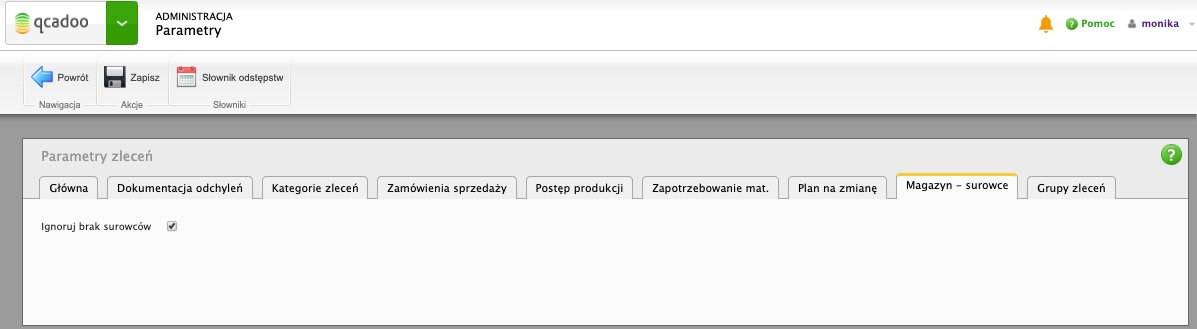
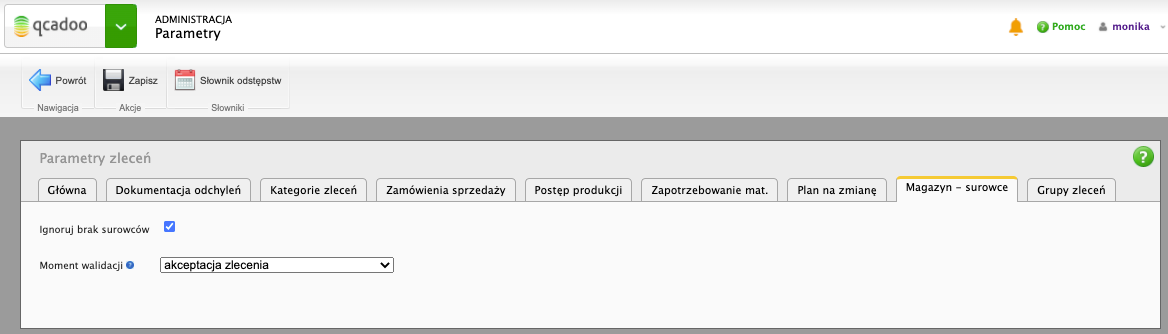
dashboard

diff --git a/pages/dashboard/dashboard.md b/pages/dashboard/dashboard.md
@@ -1,0 +1,80 @@
+---
+title: "Dashboard"
+permalink: dashboard.html 
+---
+
+Logując się do qcadoo wia Cię dashboard. Będziesz jednak wracał na nią częściej - bo proponuje kilka ciekawych rozwiazań, o których poczytasz poniżej.
+
+Zacznę od tego, że cały dashboard jest konfigurowalny. Wejdź w **Administracja > Parametry > [Dashboard](/parametry-dashboard)** i wskaż co chciałbyś zobaczyć na stronie startowej. 
+
+Pamiętaj, że w każdej chwili możesz przejść do dashboardu klikając w lewym górnym rogu ekranu w przycisk {% include inline_image.html file="przyciskQcadoo.png" alt="Przycisk qcadoo" %} **Pokaż qcadoo**).
+
+---
+
+Dashboard dzieli się na 3 obszary:
+1. obszar przycisków szybkiego wybierania
+2. obszar wykresu dziennej produkcji
+3. obszar dzisiejszych zleceń produkcyjnych lub zadań operacyjnych
+
+{% include lightbox.html file="dashboard_caly.png" alt="Dashboard" caption="Dashboard" %}
+
+## Przyciski szybkiego wybierania
+
+Masz możliwość ustawienia maksymalnie 6 przycisków z oferowanych w parametrach. Dzięki temu najczęściej używane funkcjonalności będziesz mieć zawsze pod ręką i szybko będziesz mógł je wywołać.
+
+{% include callout.html content="W parametrach możesz też ustawić kolejność w jakiej wyświetlane są przyciski." type="warning" %}
+
+## Wykres dziennej produkcji
+
+Wykres przedstawia dane z dzisiejszej produkcji. Składa się z trzech grup:
+- produkcja nie rozpoczęta
+- produkcja aktualnie realizowana
+- produkcja ukończona
+
+Analizowane są wszystkie zlecenia produkcyjne z dziś. Z każdego zlecenia pobierany jest procent wykonania. I to procent wykonania kwalifukuje zlecenie do danej grupy na wykresie. Jeśli w zleceniu nie ma ilości wyprodukowanej (czyli procent wykonania = 0) to zlecenie kształtuję grupę produkcji nie rozpoczętej. Jeśli produkcja została rozpoczęta i zarejestrowano już ilość wyprodukowaną, a procent wykonania jest większy od 0 ale nie przekroczył jeszcze 100%, to zlecenie wskakuje do grupy aktualnie realizowanych. Jeśli natomiast produkcja została zrealizowana w pełni, czyli wykonano 100% albo ustawiono status 'zakończone' to dane ze zlecenia zwiększają grupę produkcji ukończonej.
+
+## Obszar zleceń produkcyjnych lub zadań operacyjnych
+
+O tym co będziesz widzieć na dashboardzie decydują parametry - jeśli raportujesz zlecenia produkcyjne, ustaw widoczność zleceń. Jeśli natomiast raportujesz wykonanie każdej operacji - ustaw widoczność zadań operacyjnych.
+
+Ten element dashboardu ma na celu szybkie pokazanie Ci co masz zaplanowane do realizacji na dziś. I tu znowu 3 grupy:
+- oczekujące
+- realizowane
+- gotowe
+<br/>
+<br/>
+
+W zależności od statusu zlecenie wskakuje do właściwej grupy::
+- jeśli zlecenia mają status _zaakceptowane_ lub _przerwane_ to prezentowane są w grupie **oczekujące**
+- jeśli zlecenia mają status _rozpoczęte_ to pojawiają się w grupie **realizowane**
+- jeśli zlecenia mają status _zakończone_ to kształtują grupę **gotowe** 
+<br/>
+<br/>
+
+Przeciągając zlecenia między grupami (z lewej strony na prawą) możesz zmieniać ich statusy:
+- z grupy _oczekujące_ do _realizowane_ --> zlecenie dostaje status **rozpoczęte**
+- z grupy _realizowane_ do _gotowe_ --> zlecenie dostaje status **zakończone**
+<br/>
+<br/>
+
+Natomiast o tym w jakiej grupie zostanie zaprezentowane zadanie operacyjne świadczy stopień jego realizacji, interpretowany w następujący sposób:
+- jeśli zadanie nie ma zarejestrowanej produkcji i jego procent wykonania to 0, pojawia się w grupie **oczekujące**,
+- jeśli zadanie ma co najmniej jeden meldunek z produkcji, a procent wykonania kształtuje się między 0 a 100 procent, to widoczne jest w grupie **realizowane**
+- jeśli zadanie jest w pełni wykonane i jego procent = 100 albo status to _zakończone_ to zadanie będzie zaprezentowane w grupie **gotowe**
+
+{% include callout.html content="Zadania operacyjne nie mogą być przesuwane między grupami. Statusy zadań muszą być zmieniane z poziomu [listy zleceń produkcyjnych](/zlecenia-produkcyjne)." type="warning" %}
+
+### Dodatkowe funkcje dostępne z poziomu obszaru zleceń / zadań operacyjnych
+
+Z poziomu zleceń produkcyjnych widocznych na dashboardzie możesz wykonać następujące funkcje:
+1. klikając w numer zlecenia (czarna belka) przejdziesz do szczegółów zlecenia produkcyjnego. I z tego poziomu możesz wykonać wszystko to, co jest możliwe w standardzie dla zlecenia o danym statusie
+2. w obszarze **realizowane** z poziomu zlecenia raportowanego zbiorczo możliwe jest przejście do terminala rejestarcji produkcji (przycisk {% include inline_image.html file="przyciskPokazTerminal.png" alt="Przycisk Pokaż terminal" %} **Pokaż terminal**). Dane z automatu zostaną zaczytane, wystarczy, że wprowadzisz efekty wykonanej produkcji i potwierdzisz meldunek
+<br/>
+<br/>
+
+Z poziomu zadań operacyjnych widocznych na dashboardzie możesz wykonać następujące funkcje:
+1. klikając w numer zadania (czarna belka) przejdziesz do szczegółów zadania operacyjnego
+2. klikając w numer zlecenia (widoczny w treści kafelka) przejdziesz do szczegółów zlecenia produkcyjnego
+3. klikając przycisk {% include inline_image.html file="przyciskPokazTerminal.png" alt="Przycisk Pokaż terminal" %} **Pokaż terminal** przejdziesz do terminala rejestracji produkcji i będziesz mógł zaraportować efekty swojej produkcji (dane zostaną z automatu wczytane, zostaje Ci podanie ilości, czasu i potwierdzenie meldunku).
+
+{% include callout.html content="Jeśli użytkownik, z którego korzystasz, ma przypisanego pracownika, to zostanie on z automatu wypełniony po przejściu do terminala. Jeśli nie ma - będziesz musiał pracownika ręcznie zalogować i dopiero wówczas wczytają się dane o zadaniu / zleceniu." type="warning" %}

diff --git a/pages/planowanie/zlecenia-produkcyjne/zmiana-stanu-zapotrzebowania.md b/pages/planowanie/zlecenia-produkcyjne/zmiana-stanu-zapotrzebowania.md
@@ -5,7 +5,7 @@ permalink: zmiana-stanu-zapotrzebowania.html
 
 Jak wiadomo, w każdym procesie produkcyjnym zdarzają się zmiany związane z zapotrzebowaniem materiałowym. Program qcadoo wychodzi na przeciw takim sytuacją i daje możliwość edycji wcześniej obliczonego zapotrzebowania materiałowego w trakcie trwania zlecenia.
 
-Aby móc zmienić zapotrzebowanie należy z listy zleceń wybrać konkretne zlecenie, wejść w widok szczegółowy i przy pomocy {% include inline_image.html file="dropdownIcon32.png" alt="dropdown" %} rozwinąć boczny pasek menu. Następnie wybieramy {% include inline_image.html file="iconProducts24.png" alt="produkt" %} **Ilości wyprodukowane/ zużyte** i dalej: {% include inline_image.html file="genealogyIcon24.png" alt="genealogia" %} **Szczegółowe zapotrzebowanie i**  **postęp**. Po kliknięciu przycisku pojawi się tabela. W tabeli widoczne są wszystkie produkty jakie zastosowaliśmy w danym zleceniu, operacje w jakich produkt powstał, rola i typ produktu oraz planowane ilości. Dodatkowo z poziomu tabeli można dodawać, edytować i usuwać produkty. Aby dodać nowy produkt wybieramy {% include inline_image.html file="newIcon24.png" alt="Przycisk Dodaj nowe" %} **Nowy**.
+Aby móc zmienić zapotrzebowanie należy z listy zleceń wybrać konkretne zlecenie, wejść w widok szczegółowy i przy pomocy {% include inline_image.html file="dropdownIcon32.png" alt="dropdown" %} rozwinąć boczny pasek menu i wybrać {% include inline_image.html file="genealogyIcon24.png" alt="genealogia" %} **Szczegółowe zapotrzebowanie**. Po kliknięciu przycisku pojawi się tabela. W tabeli widoczne są wszystkie produkty jakie zastosowaliśmy w danym zleceniu, operacje w jakich produkt powstał, rola i typ produktu oraz planowane ilości. Dodatkowo z poziomu tabeli można dodawać, edytować i usuwać produkty. Aby dodać nowy produkt wybieramy {% include inline_image.html file="newIcon24.png" alt="Przycisk Dodaj nowe" %} **Nowy**.
 
 {% include lightbox.html file="planowanieZleceniaSzczegoloweZapotrzebowanie.png" alt="Szczegółowe zapotrzebowanie" caption="Szczegółowe zapotrzebowanie"%}
 

diff --git a/pages/Zaopatrzenie/pokrycie-zapotrzebowania.md b/pages/Zaopatrzenie/pokrycie-zapotrzebowania.md
@@ -21,9 +21,9 @@ Pokrycie zapotrzebowania generujemy wchodząc w:
 
 2. W następnym kroku musisz dodać "Magazyny" w których będziesz sprawdzał dostępność materiałów.
 
-3. W kolejnym etapie musimy wybrać jakie produkty chcemy zobaczyć w wynikach, możemy zdecydować się na wszystkie, zakupione od dostawców bądź te które są potrzebne do operacji wykonywanych przez podwykonawców. Pole "Numer" wypełniane jest automatycznie, jeżeli chcemy zmienić numerację możemy zrobić to ręcznie.
+3. W kolejnym etapie musimy wybrać jakie produkty chcemy zobaczyć w wynikach, możemy zdecydować się na wszystkie, produkty nie znajdujące się na magazynie lub tylko braki/opóźnienia. Pole "Numer" wypełniane jest automatycznie, jeżeli chcemy zmienić numerację możemy zrobić to ręcznie.
 
-4. Jeżeli chcemy możemy również zaznaczyć opcję "Niezatwierdzone dostawy", wówczas program uwzględni w obliczeniach produkty znajdujące się w tych dostawach.
+4. Jeżeli chcemy możemy również zaznaczyć opcję "Uwzględnij niezatwierdzone dostawy", wówczas program uwzględni w obliczeniach produkty znajdujące się w tych dostawach.
 
 5. Jeżeli wypełnimy wszystkie wymagane pola, możemy wygenerować listę z pokryciem zapotrzebowania, używając przycisku {% include inline_image.html file="generateIcon24.png" alt="Przycisk generuj" %} **Generuj** ,a następnie przejść do następnej zakładki **"Pokrycie zapotrzebowania"**.
 

diff --git a/pages/administracja/parametry/parametry-zlecenia.md b/pages/administracja/parametry/parametry-zlecenia.md
@@ -140,7 +140,8 @@ W tej zakładce mamy jeden parametr - decydujący o tym, czy rozpoczynamy zlecen
 
 {% include lightbox.html file="administracjaParametryZleceniaMagazynSurowce.png" alt="Parametry zleceń - magazyn surowce" caption="Parametry zleceń - magazyn surowce" %}
 
-1. **Ignoruj brak surowców** - jeśli parametr będzie niezaznaczony, to nie pozwolimy na akceptację zlecenia jeśli na magazynie nie będzie wystarczającego stanu surowców pod dane zlecenie. W administracji ustawiamy wartość domyślną parametru. Możesz ją zmienić jeszcze na poziomie zlecenia produkcyjnego
+1. **Ignoruj brak surowców** - jeśli parametr będzie niezaznaczony, to nie pozwolimy na akceptację lub rozpoczęcie zlecenia jeśli na magazynie nie będzie wystarczającego stanu surowców pod dane zlecenie. W administracji ustawiamy wartość domyślną parametru. Możesz ją zmienić jeszcze na poziomie zlecenia produkcyjnego
+2. **Moment walidacji** - wskaż, czy mamy sprawdzać stan surowców w momencie akceptacji czy rozpoczynania zlecenia
 
 ---
 
